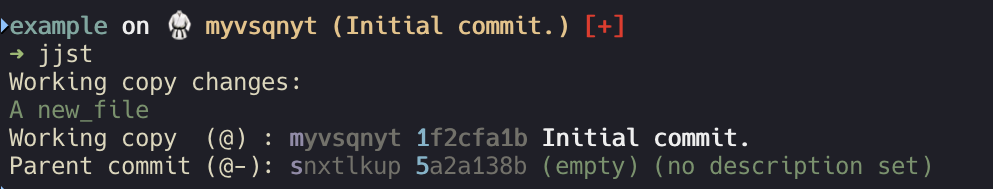
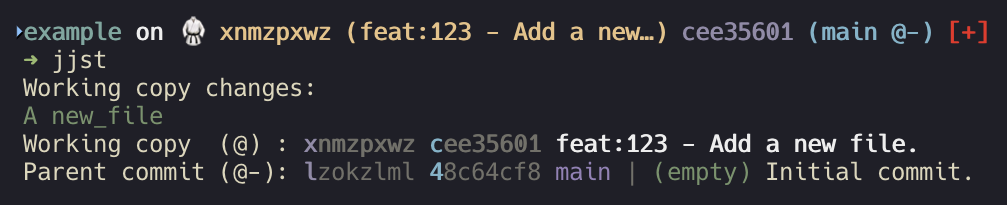
Update README.md and overview image for release v0.1.0.

Changed region(s): [[0.0, 0.2381, 0.9678, 0.9524], [0.0, 0.0529, 0.999, 0.2381]]

diff --git a/README.md b/README.md
@@ -22,6 +22,19 @@
   <img src="spaceship-jj-section.png" alt="Prompt Screenshot" />
 </p>
 
+## Overview
+
+The `spaceship-jj` plugin is designed as a drop-in replacement for the Spaceship `git` section for use within Jujutsu repositories.
+It currently supports displaying the following information:
+
+* current change ID.
+* description, with an option to show/hide the description if it is unset, and an option to truncate long descriptions.
+* git commit ID, truncated to the first 8 characters with an option to view the full commit ID
+* nearest bookmarked ancestor, with an indication of how far the current working copy is ahead of the nearest bookmark.
+* status flags for files in the current working copy.
+
+These individual components can be toggled on or off, as required.
+
 ## Installing
 
 You need to source this plugin somewhere in your dotfiles. Here's how to do it with some popular tools:
@@ -183,6 +196,7 @@ Shows the change ID (shortest unique prefix) and description of the working copy
 |:------------------------------|:----------------------------------:|-------------------------------------------|
 | `SPACESHIP_JJ_DESC_SHOW`      |               `true`               | Show description subsection               |
 | `SPACESHIP_JJ_DESC_EMPTY_SHOW`|              `false`               | Show `(empty)` label for empty commits    |
+| `SPACESHIP_JJ_DESC_MAX_LENGTH`|              `999`                 | Maximum length of the description         |
 | `SPACESHIP_JJ_DESC_ASYNC`     |               `true`               | Render subsection asynchronously          |
 | `SPACESHIP_JJ_DESC_PREFIX`    | `$SPACESHIP_PROMPT_DEFAULT_PREFIX` | Prefix before subsection                  |
 | `SPACESHIP_JJ_DESC_SUFFIX`    |               `" "`                | Suffix after subsection                   |
@@ -195,6 +209,7 @@ Shows the commit ID of the working copy. Hidden by default - set `SPACESHIP_JJ_C
 | Variable                       |   Default   | Meaning                              |
 |:-------------------------------|:-----------:|--------------------------------------|
 | `SPACESHIP_JJ_COMMIT_SHOW`     |   `false`   | Show commit ID subsection            |
+| `SPACESHIP_JJ_COMMIT_FULL`     |   `false`   | Show full commit ID instead of first 8 characters |
 | `SPACESHIP_JJ_COMMIT_ASYNC`    |   `true`    | Render subsection asynchronously     |
 | `SPACESHIP_JJ_COMMIT_PREFIX`   |    `""`     | Prefix before subsection             |
 | `SPACESHIP_JJ_COMMIT_SUFFIX`   |    `" "`    | Suffix after subsection              |

diff --git a/CHANGELOG.md b/CHANGELOG.md
@@ -1,5 +1,18 @@
+### v0.0.3 (2026-03-17)
+
+* Enforce a jj repo check. by @lucean in https://github.com/lucean/spaceship-jj/pull/24
+
+**Full Changelog**: [v0.0.3](https://github.com/lucean/spaceship-jj/compare/v0.0.2...v0.0.3)
+
+### v0.0.2 (2026-03-17)
+
+* Added section to show empty working copy. by @lucean in https://github.com/lucean/spaceship-jj/pull/15
+* Add commit details to section. by @lucean in https://github.com/lucean/spaceship-jj/pull/16
+
+**Full Changelog**: [v0.0.2](https://github.com/lucean/spaceship-jj/compare/v0.0.1...v0.0.2)
+
 ### v0.0.1 (2026-03-13)
 
 * Initial release
 
-Full Changelog: [v0.0.1](https://github.com/lucean/spaceship-jj/commits/v0.0.1)
+**Full Changelog**: [v0.0.1](https://github.com/lucean/spaceship-jj/commits/v0.0.1)
